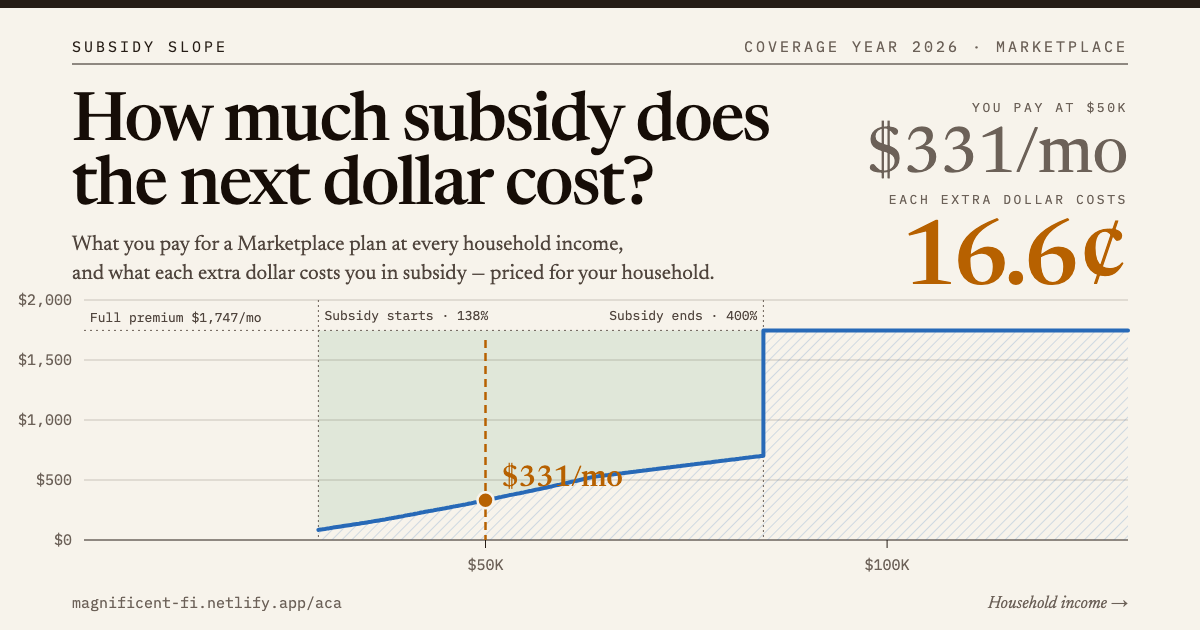
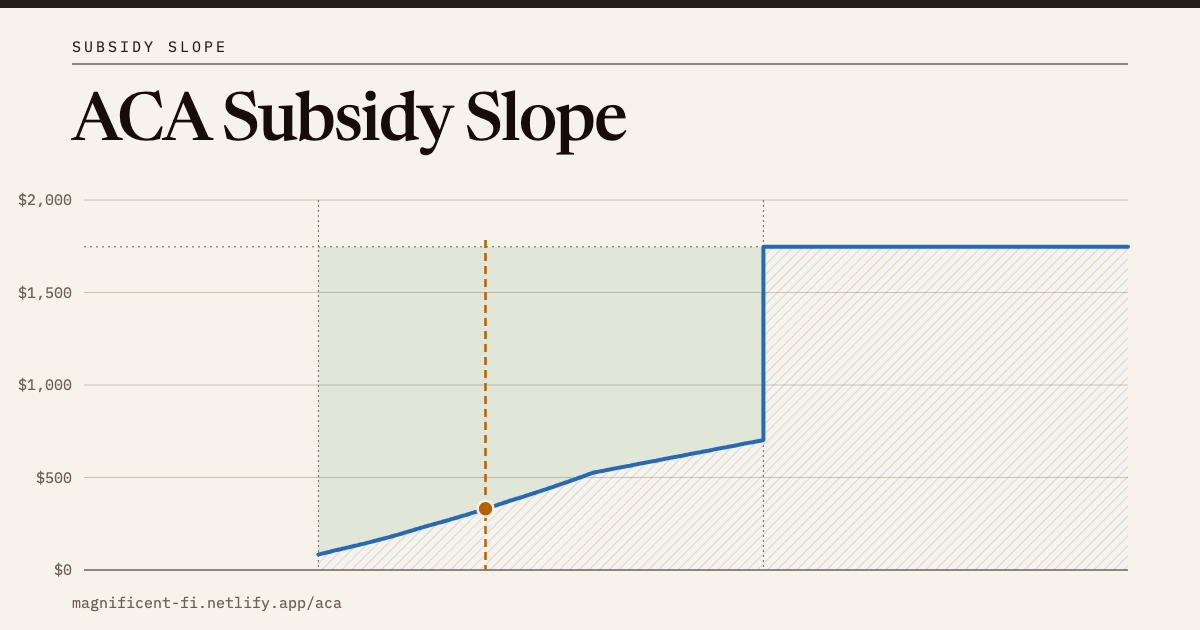
og-cover updates

diff --git a/README.md b/README.md
@@ -56,9 +56,9 @@ itself stands where the chart stands beside it.
 
 Six figures follow the chart: total income, federal tax, effective rate, the
 rate on the next dollar, the taxable share of the benefit, and the Medicare
-surcharge that MAGI buys. Below them, the notes: four or five collapsed
-explainers, numbered — the torpedo, how to mitigate it, the IRMAA cliffs, the
-400% line when the return has one, and the senior deduction's phaseout.
+surcharge that MAGI buys. Below them, the notes: three or four collapsed
+explainers, numbered — the torpedo, how to mitigate it, the 400% line when
+the return has one, and the senior deduction's phaseout.
 
 ### What is priced
 
@@ -127,17 +127,17 @@ it is where the reader is standing, not what the return holds.
      between the cost curve and a dashed full-premium line; ink-dashed lines
      mark where it starts, at 138% or 100% of the poverty line, and ends, at
      400%. Four figures follow: You pay, Subsidy, Each extra $1 of income
-     costs, and Room before the cliff. Five notes: How the subsidy is
-     figured, The slope, The 400% cliff, The Medicaid line, and What is left
-     out.
+     costs, and Room before the cliff. Five notes: The ACA Subsidy,
+     Effective and Marginal Rates, The 400% Cliff, back since 2026, Medicaid,
+     and Out of Scope.
    - **Your effective rate** — the same premium, counted as the tax it works
      like, stacked on federal income tax: both as shares of household
      income, against the same axis. A grey wash for the tax, the cost
      chart's blue hatch for the premium, and an ink line along the top for
      the whole; the jump in that line at 400% is the chart. Four figures:
      All in, Federal income tax, Each extra $1 of income costs, and The
-     plan's share of income. Three notes: How the rate is figured, Why the
-     premium counts as a tax, and What is left out, on both sides.
+     plan's share of income. The same five notes as the cost chart, since
+     both charts price the same subsidy.
 
    Either way a "You" marker sits at your income — click or tap the chart,
    drag a finger along it, drag the slider under it, or type a number to
@@ -155,8 +155,7 @@ rate schedule and the child tax credit, for 2025 and 2026, by filing status.
 The status is read off the household — two adults file jointly, one adult
 with children is a head of household, one adult alone is single — and the
 income is the subsidy's own, taken as all ordinary. Payroll tax, state tax,
-refundable credits and every deduction but the standard one are left out,
-and the last note says so.
+refundable credits and every deduction but the standard one are left out.
 
 ### What is priced
 
@@ -221,14 +220,17 @@ Graph and Twitter card block, pointing at `public/og-cover.png` for the
 torpedo and `public/aca/og-cover.png` for the Subsidy Slope. A card is not
 the reader's own scenario and cannot be — this is static files, so no server
 ever sees the query string. It says what the page is; the figures stay on
-the page.
+the page, and the card quotes none of them — it is a kicker, a headline,
+that page's curve with the one axis it is read against, and the address.
 
-The curve on each card is the real one. `scripts/og-cover.mjs` bundles
-`marginalRateCurve` out of `src/torpedo/lib`, and `scripts/og-cover-aca.mjs`
-bundles `costCurve` out of `src/aca/lib`; each samples it for the scenario
-its page opens on, draws its plot inside the frame `scripts/card.mjs` holds
-— the kicker and the rule, the headline, the hook at the right, the site's
-faces and tokens — and rasterises the result:
+The curve on each card is the real one, and it is drawn with no callout: the
+curve, the grid, and the rates or costs down its left. `scripts/og-cover.mjs`
+bundles `marginalRateCurve` out of `src/torpedo/lib`, and
+`scripts/og-cover-aca.mjs` bundles `costCurve` out of `src/aca/lib`; each
+samples it for the scenario its page opens on, draws its plot inside the
+frame `scripts/card.mjs` holds — the paper, the rule across the top, the
+kicker and headline under it, and the address at the foot — and rasterises
+the result:
 
 ```bash
 node scripts/og-cover.mjs       # rewrites public/og-cover.png and public/apple-touch-icon.png
